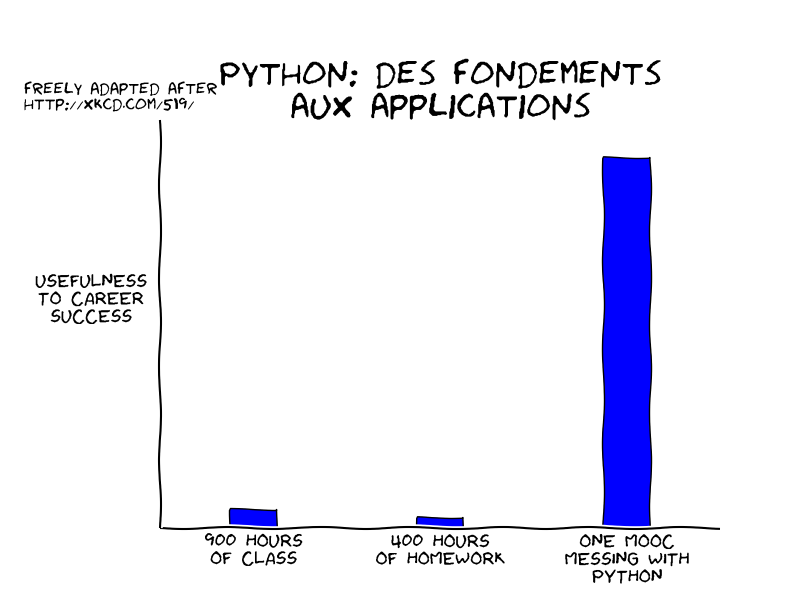
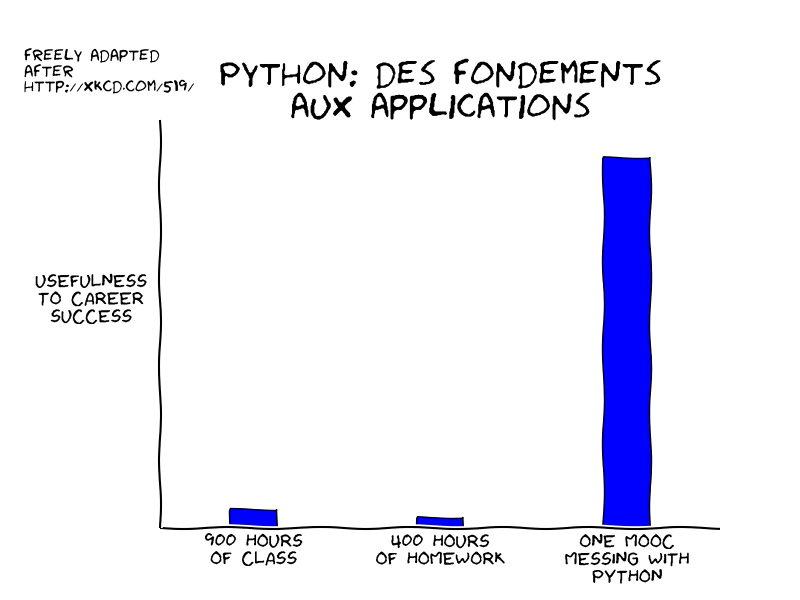
minor

Changed region(s): [[0.0312, 0.06, 0.2812, 0.18]]

diff --git a/semainex-a-ranger/xkcd.py b/semainex-a-ranger/xkcd.py
@@ -12,7 +12,7 @@ plt.xkcd()
 
 fig = plt.figure()
 #fig.set_bbox()
-fig.text(0.03,0.82,"freely adapted after\nhttp://xkcd.com/519/",fontsize=12)
+fig.text(0.03,0.85,"freely adapted\nafter\nhttp://xkcd.com/519/",fontsize=12)
 ax = fig.add_subplot(1, 1, 1)
 ax.spines['right'].set_color('none')
 ax.spines['top'].set_color('none')
